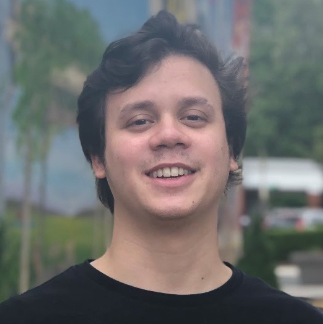
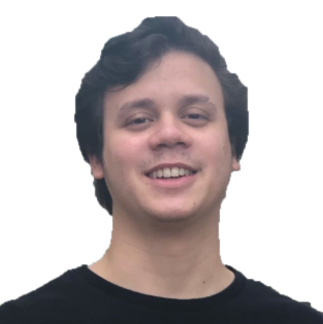
add: Added front page images and css rendering

diff --git a/src/components/intro/intro.css b/src/components/intro/intro.css
@@ -12,6 +12,7 @@
 
 .i-right{
     flex: 1;
+    position: relative;
 }
 
 .i-left-wrapper{
@@ -63,4 +64,21 @@
     color: green;
     display: flex;
     align-items: center;
+}
+
+.i-img{
+    width: 100%;
+    height: 100%;
+    object-fit: cover;
+    position: absolute;
+}
+
+.i-bg{
+    clip-path: polygon(25% 0%, 100% 0, 100% 50%, 100% 100%, 25% 100%, 0% 50%);
+    background-color: green;
+    width: 100%;
+    height: 100%;
+    position: absolute;
+    top: 0;
+    right: 0;
 }

diff --git a/src/components/intro/Intro.jsx b/src/components/intro/Intro.jsx
@@ -1,5 +1,6 @@
 import React from 'react'
 import "./intro.css"
+import Me from "../../img/me.png"
 
 const Intro = () => {
   return (
@@ -24,7 +25,10 @@ const Intro = () => {
                 </div>
             </div>
         </div>
-        <div className="i-right">right</div> 
+        <div className="i-right">
+            <div className="i-bg"></div>
+            <img src={Me} alt="" className="i-img" />
+        </div> 
     </div>
   )
 }
